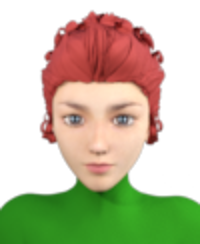
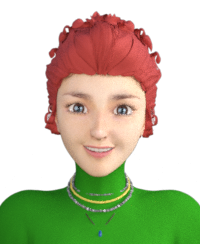
changed mom's portrait and add sink with window

diff --git a/ckGraphicsEngine/assets/BlenderSpritesheetAsset.java b/ckGraphicsEngine/assets/BlenderSpritesheetAsset.java
@@ -210,7 +210,7 @@ public class BlenderSpritesheetAsset {
 			public boolean accept(File directory,String fileName){
 				return fileName.endsWith(IMG_EXTENSION);}});
 		ArrayList<String> commandList = new ArrayList<String>();
-		commandList.add("montage");
+		commandList.add("blender");
 		
 		System.out.println("imgFileList.length: " + imgFileList.length);
 		
@@ -243,6 +243,7 @@ public class BlenderSpritesheetAsset {
 			catch(IOException e1){System.out.println(e1.getMessage());} 
 			catch (InterruptedException e) {e.printStackTrace();}
 	}
+	
 	//Moves the spritesheet to the ASSET_IMAGES directory in CK_DATA
 	public void moveSpritesheet(){
 		String curString = this.basePath+"/"+this.characterName+"/"+this.sheetFileName;
@@ -340,7 +341,7 @@ public class BlenderSpritesheetAsset {
 
 	public static void main(String[] args) {
 		try{
-			BlenderSpritesheetAsset test_ = new BlenderSpritesheetAsset("D:/BlenderPipeline/Output/teleport/teleport.txt");
+			BlenderSpritesheetAsset test_ = new BlenderSpritesheetAsset("D:/BlenderPipeline/Output/teleport2/teleport2.txt");
 			System.out.println(test_);
 			CKGraphicsAsset newAsset = test_.pipeline();
 			CKGraphicsAsset A1=CKGraphicsAssetFactoryXML.getInstance().getGraphicsAsset(newAsset.getAID());	

diff --git a/ckPipeline/TxtFile.java b/ckPipeline/TxtFile.java
@@ -12,6 +12,7 @@ import java.nio.file.DirectoryStream;
 import java.nio.file.Files;
 import java.nio.file.Path;
 import java.util.ArrayList;
+import java.util.Collections;
 import java.util.Scanner;
 
 public class TxtFile {
@@ -86,6 +87,10 @@ public class TxtFile {
 		catch(FileNotFoundException e){
 			System.out.println("FILENOTFOUND");
 		}
+		
+		//sort the actions in alphabetic order
+		Collections.sort(defs, String.CASE_INSENSITIVE_ORDER);
+		
 		ArrayList<String> out=new ArrayList<String>();
 		for (int x=0;x<defs.size();x++){
 			//This goes through all the lines in the default, and creates actions from them

diff --git a/ckDatabase/CKXMLFactory.java b/ckDatabase/CKXMLFactory.java
@@ -146,7 +146,6 @@ abstract public class CKXMLFactory<T extends CKXMLAsset<T>>
 		try
 		{
 			CKURL u = new CKURL(getBaseDir()+XMLDirectories.ASSET_DIR+assetID+".xml");
-			
 			XMLDecoder d = new XMLDecoder(u.getInputStream());
 			@SuppressWarnings("unchecked")
 			T node = (T) d.readObject();
